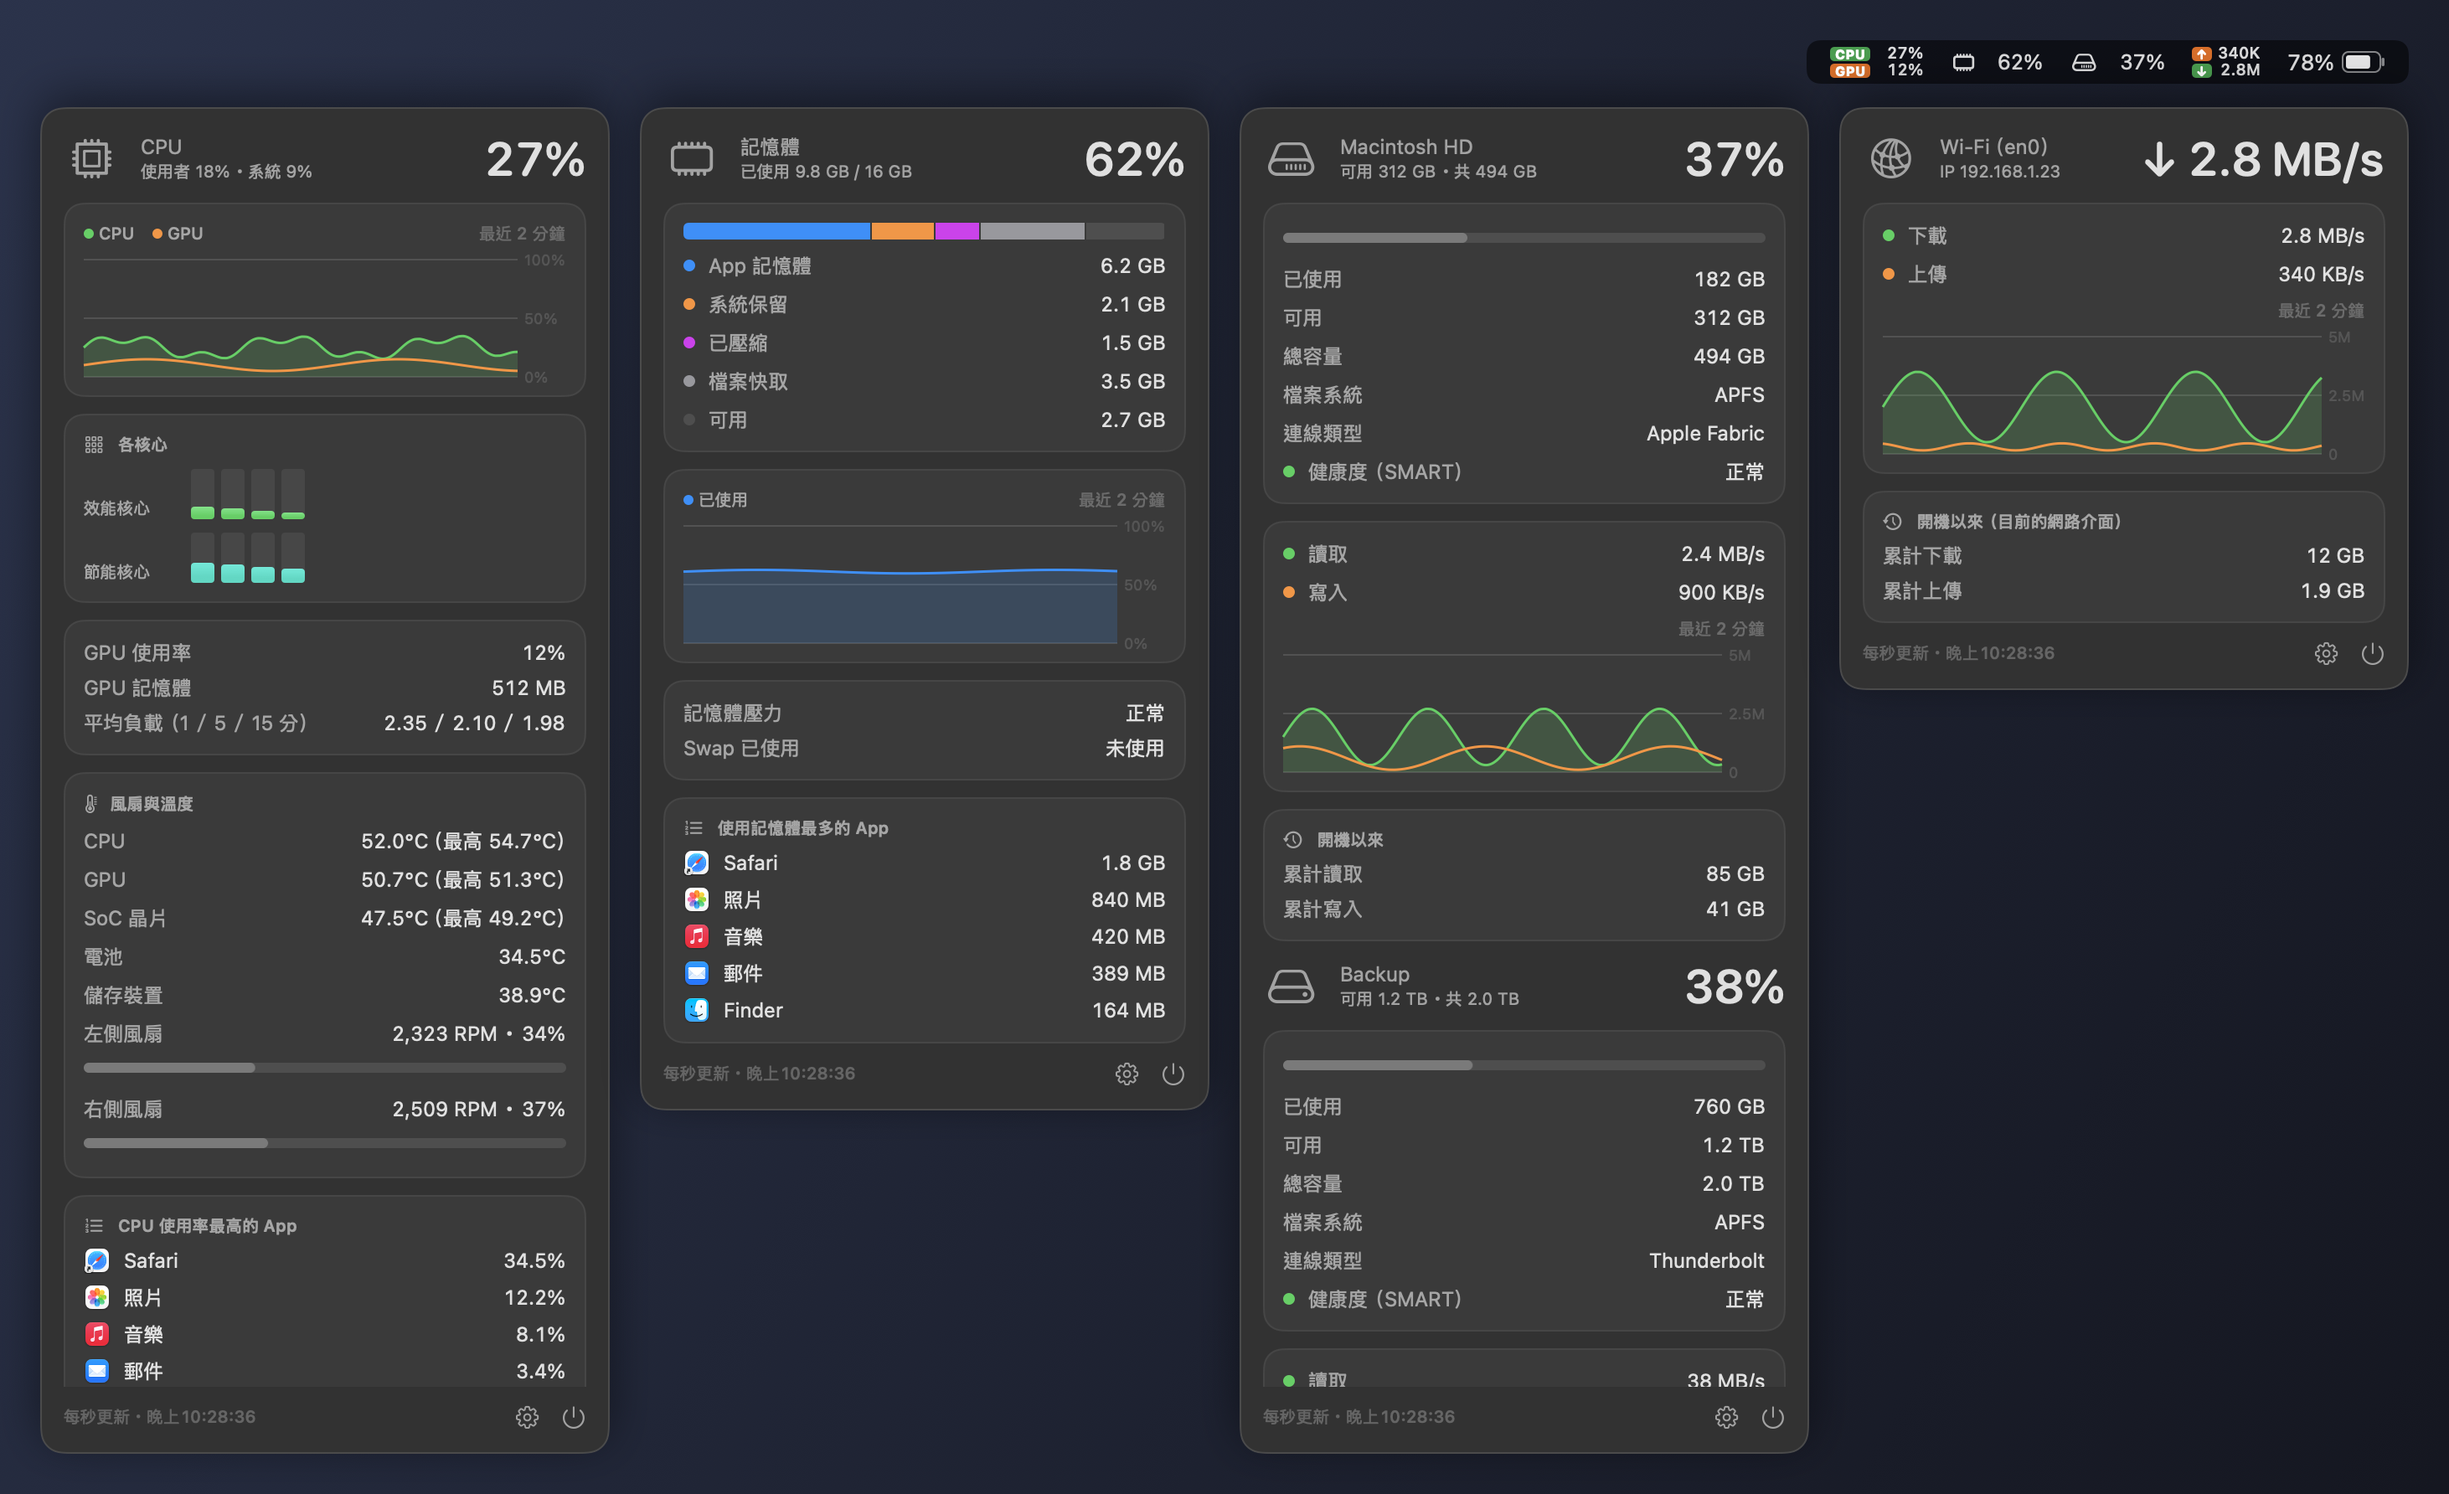
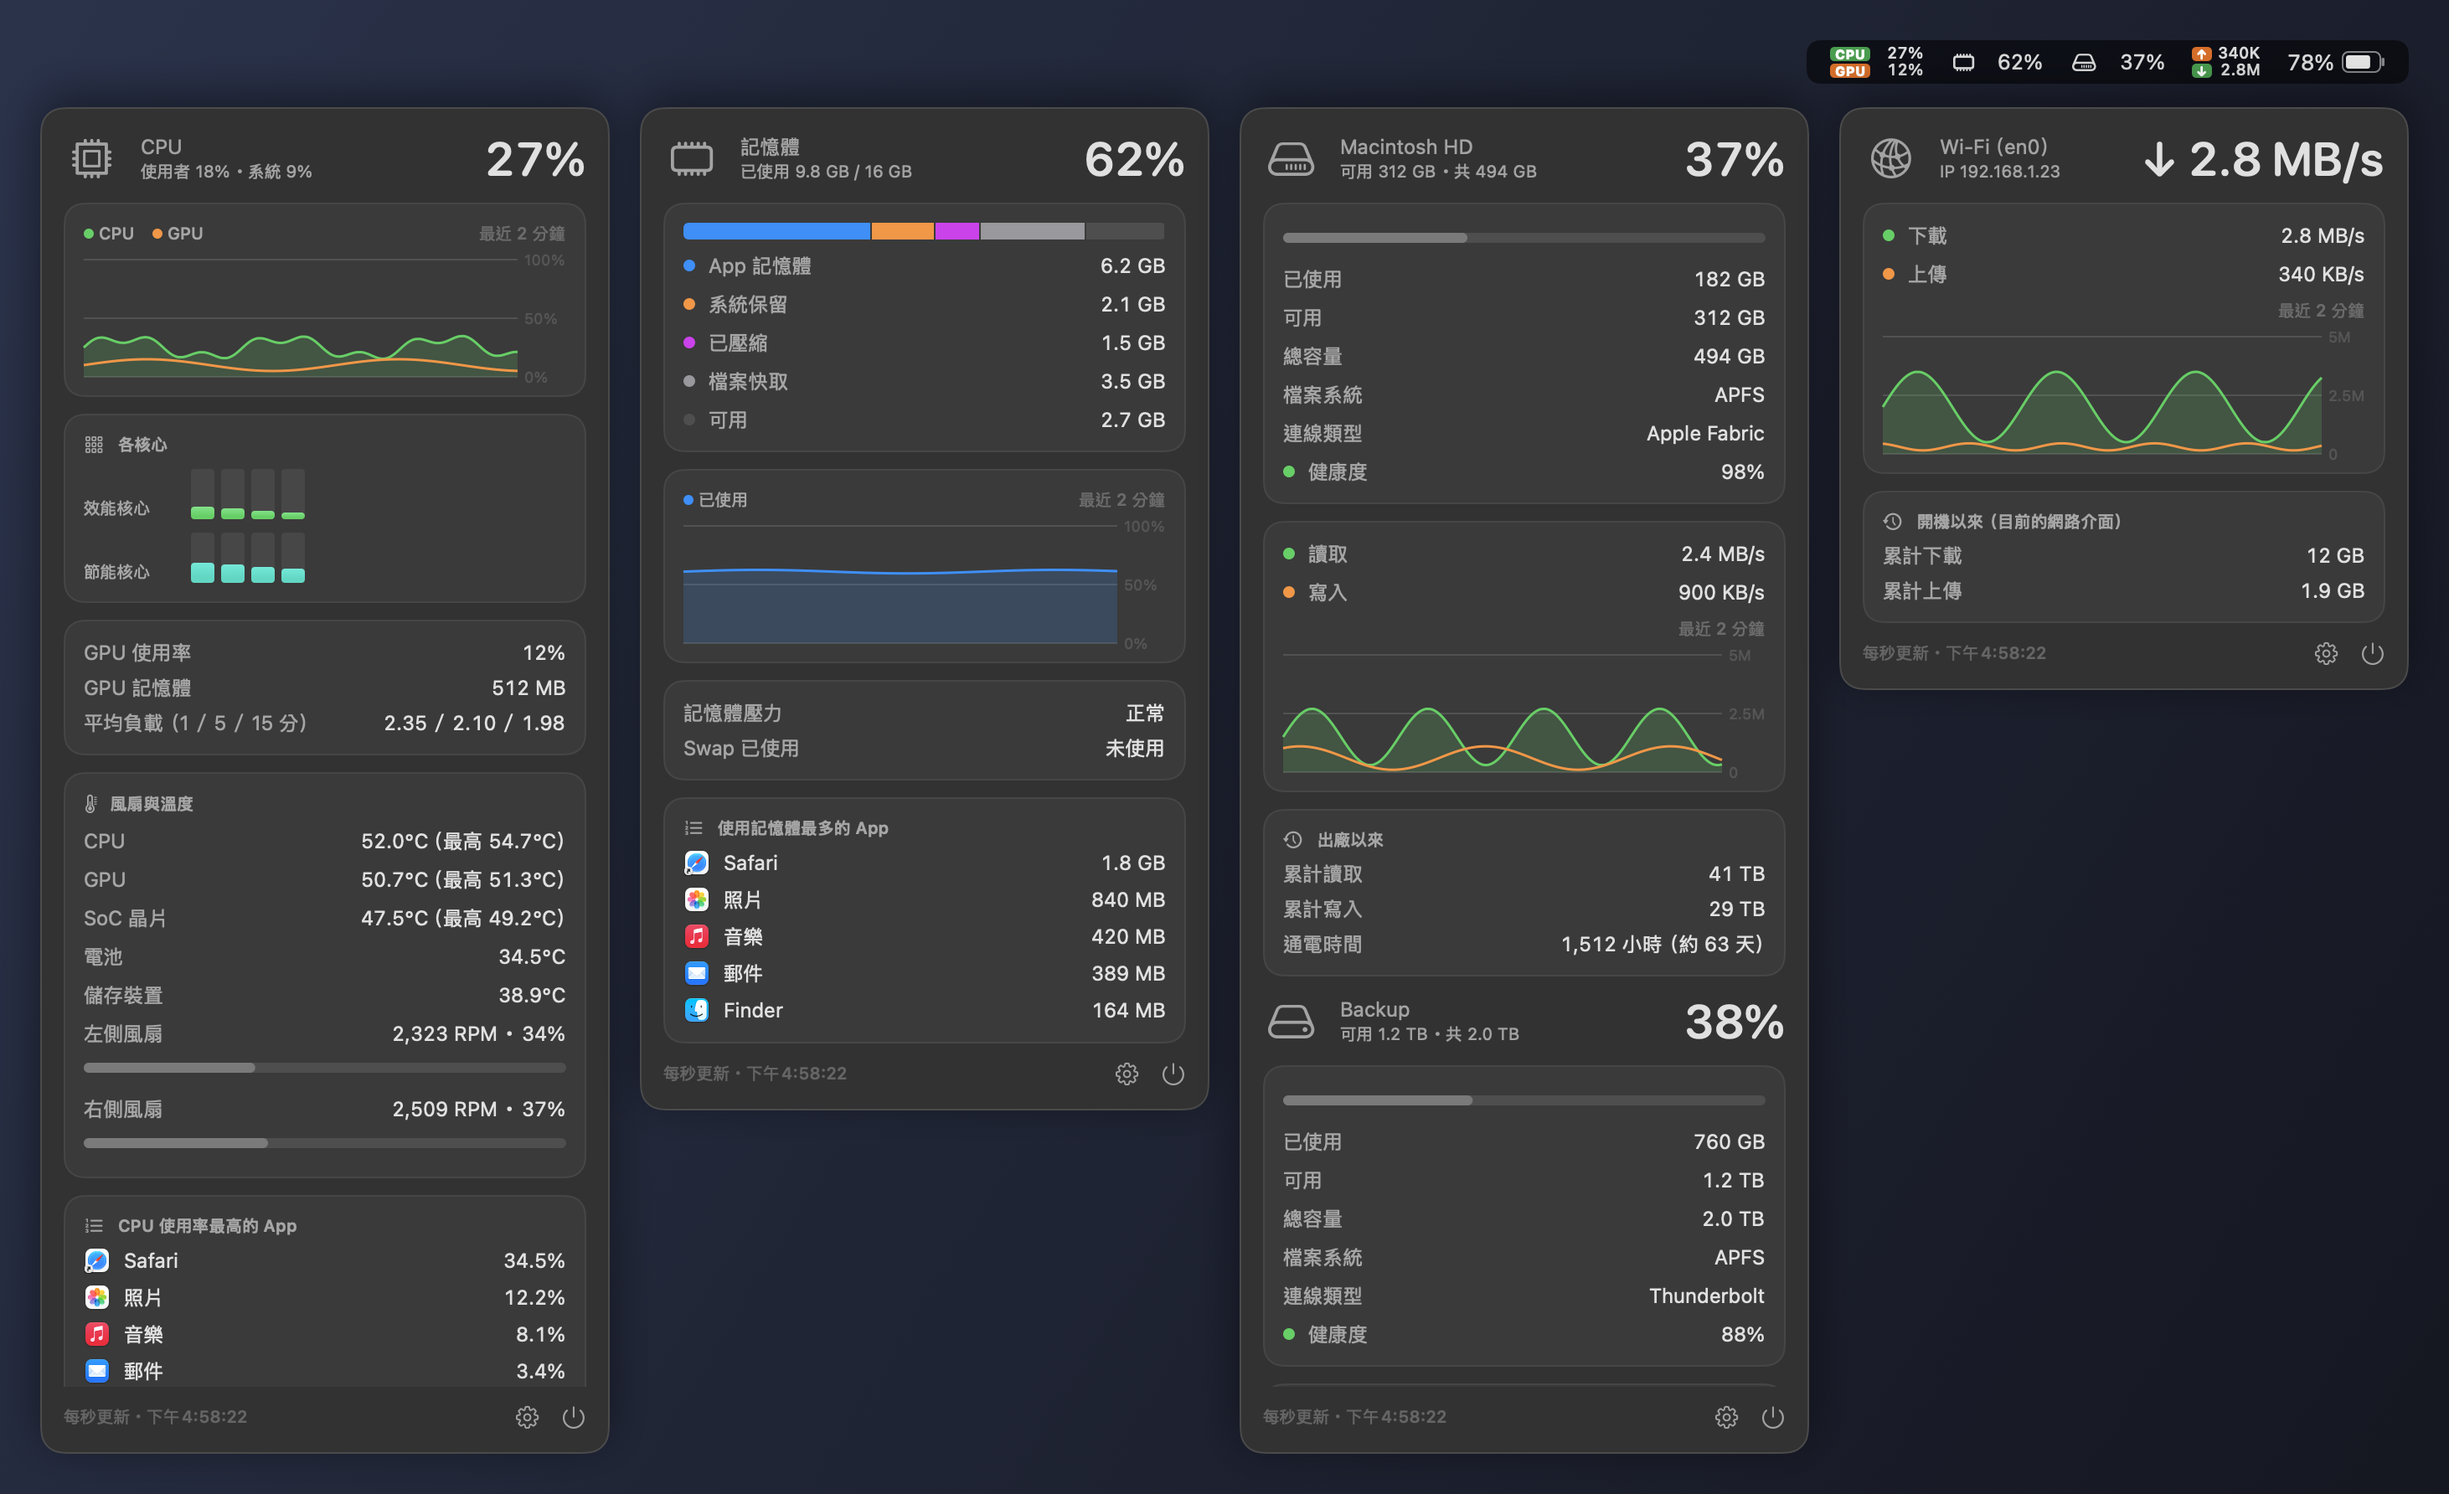
Release v1.7.3
A desktop pet that moves anywhere, resizes and follows the cursor with the built-in cat photo's eyes, separate scroll directions for mouse and trackpad, drive health as a percentage with lifetime reads and writes, and the older updaters' zips attached to every release.

diff --git a/.github/release-notes/v1.7.3.md b/.github/release-notes/v1.7.3.md
@@ -1,0 +1,43 @@
+# v1.7.3：桌面寵物自由移動、會動的眼睛、分開的捲動方向、硬碟健康度
+
+桌面寵物可以放在螢幕上任何地方、調整大小，貓咪大頭照的眼睛會跟著游標轉，用滑鼠來回摸牠會冒出愛心；滑鼠和觸控板的捲動方向可以分開設定；磁碟面板的健康度改成百分比，累計讀寫改成硬碟從出廠到現在的總量。使用 v1.5.0 以後的版本，到設定 → 更新按「一鍵更新」即可直接升級，設定與歷史資料都會保留。
+
+### 桌面寵物
+- **自由移動**：可以放在螢幕上任何地方，選單列旁邊、Dock 上方都可以，也可以一部分超出螢幕（至少留一角在螢幕上，找得回來）。拖到螢幕頂端時不會再被 macOS 當成視窗並排、放大到中間
+- **大小**：50%～200%。設定 → 充電夥伴的滑桿、右鍵的「大小」（小、標準、大、特大），或把滑鼠移到寵物上用觸控板兩指捏合；改大小時腳底的位置不動
+- **會動的眼睛**（貓咪大頭照）：眼睛跟著滑鼠游標轉，偶爾眨眼；等智慧充電時閉眼睡覺，滑鼠移過去就醒來。用的是照片裡貓咪自己的虹膜，只移動眼睛那一小塊，滑鼠一直移動時 M1 實測約多 0.4% CPU，滑鼠不動時不用 CPU。外觀選貓咪大頭照時，設定 → 充電夥伴有「眼睛跟著游標」與「會眨眼、睡覺」兩個開關
+- **貓咪大頭照與我的照片分開**：照片外觀分成內建的「貓咪大頭照」和自己選的「我的照片」兩種，換自己的照片不會蓋掉貓咪大頭照，隨時可以換回來；設定 → 充電夥伴的「移除」可以刪掉自己的照片。v1.7.2 換成自己照片的人，更新後自動改用「我的照片」
+- **摸摸**：滑鼠在寵物身上左右來回移動幾下，頭上冒出愛心，說「呼嚕呼嚕～」「好舒服喔」等，眼睛照樣張開看著你
+
+### 充電夥伴
+- 接著電源但沒在充（到達充電上限、充滿）時，面板與桌面寵物的充電夥伴改成綠色，右上角有插頭標示；以前看起來和沒接電源一樣
+- 外觀選單多了「貓咪大頭照」與「我的照片」（見上面）
+
+### 滑鼠與觸控板的捲動方向
+- macOS 的「自然捲動」是滑鼠和觸控板一起變。設定 → 滑鼠與觸控板可以只反轉滑鼠滾輪，或只反轉觸控板，例如觸控板維持自然捲動、滑鼠滾輪改回傳統方向
+- 兩指以上在觸控板上捲動（含放開手指後的慣性）算觸控板，其他（一般滾輪、Magic Mouse）算滑鼠
+- 需要允許「輔助使用」：打開開關時 macOS 會請你到系統設定允許，幾秒內就生效。App 沒有 Apple 開發者簽章，每次更新後要在「輔助使用」裡移除舊的項目、再加一次，設定頁會提醒
+- 兩個開關都關掉時完全不攔截捲動
+
+### 硬碟健康度與出廠以來的讀寫量
+- NVMe 硬碟（Apple 晶片 Mac 的內建硬碟，多數 2016 年以後的 Intel Mac 與 Thunderbolt 外接盒）會自己記錄從出廠到現在的讀寫總量與已用掉的設計壽命。磁碟面板的健康度改成百分比（100% 減去已用壽命），「開機以來」改成「出廠以來」的累計讀取與寫入，另外列出通電時間；有媒體錯誤時多一行
+- 硬碟回報嚴重警告或備用區塊低於門檻時，健康度顯示紅色的「異常，建議立即備份」
+- 不需要管理員權限，只在磁碟面板開著時讀，一次約 0.2 毫秒；讀不到的硬碟（例如 2015 年 MacBook Air 的內建硬碟、多數 USB 外接盒）維持原本的「正常／異常」與開機以來的讀寫量
+
+### 一鍵更新
+- 每個版本都附上舊檔名的 battery／status zip：v1.5.0～v1.6.2 與 v1.7.1 通用版可以直接一鍵更新到最新版，不用再經過 v1.7.2；v1.7.1 的舊系統版本一樣先更新到 v1.7.2
+
+### 下載
+- `macbookBatteryMonitor.dmg`：Apple 晶片或 Intel、macOS 14 以上
+- `macbookBatteryMonitor-macOS12.dmg`：Apple 晶片或 Intel、macOS 12 或 13
+- `…-v1.7.3-battery-macOS-arm64.zip`、`…-v1.7.3-status-macOS-arm64.zip`：給舊版一鍵更新用，內容與通用版的 DMG 相同（兩種晶片都能用），不需要下載
+- 附 `SHA256SUMS.txt`
+
+### 安裝
+- **已在用 v1.5.0 以後的版本**：設定 → 更新 →「一鍵更新」
+- **v1.4.1 以前或第一次安裝**：下載上面的 DMG，打開後把 App 拖到「應用程式」。第一次打開時 macOS 會擋下來（App 沒有 Apple 開發者簽章），到「系統設定 → 隱私權與安全性」按「強制打開」，或在終端機執行：
+  ```bash
+  xattr -dr com.apple.quarantine /Applications/macbookBatteryMonitor.app
+  ```
+
+設定與歷史資料都會保留。App 沒有 Apple 開發者簽章，macOS 會把每個新版本當成新的 App，更新後可能會再詢問一次藍牙權限（只用來讀取藍牙滑鼠、鍵盤的電量），允許即可；有用分開的捲動方向的話，也要重新允許「輔助使用」。
